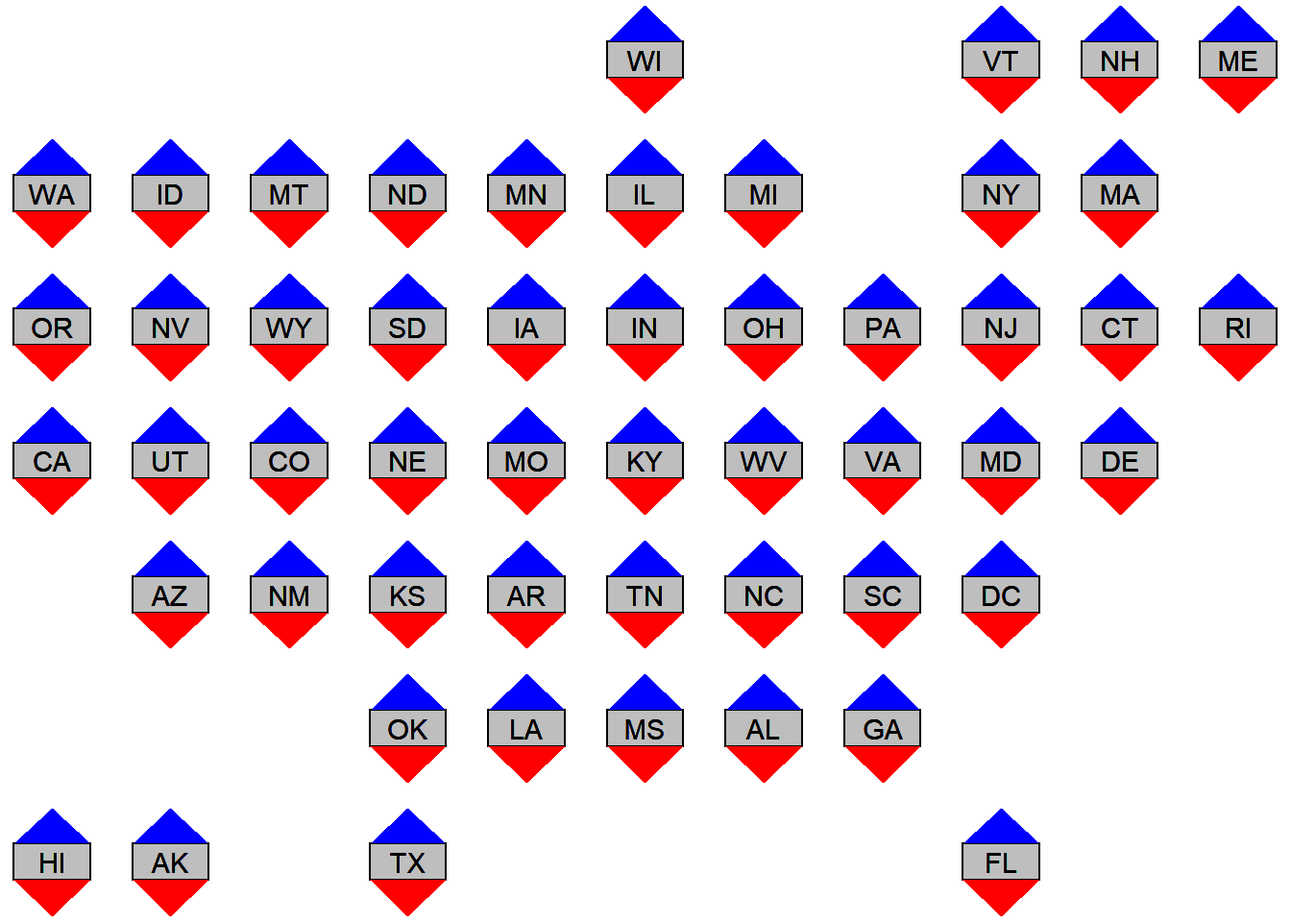
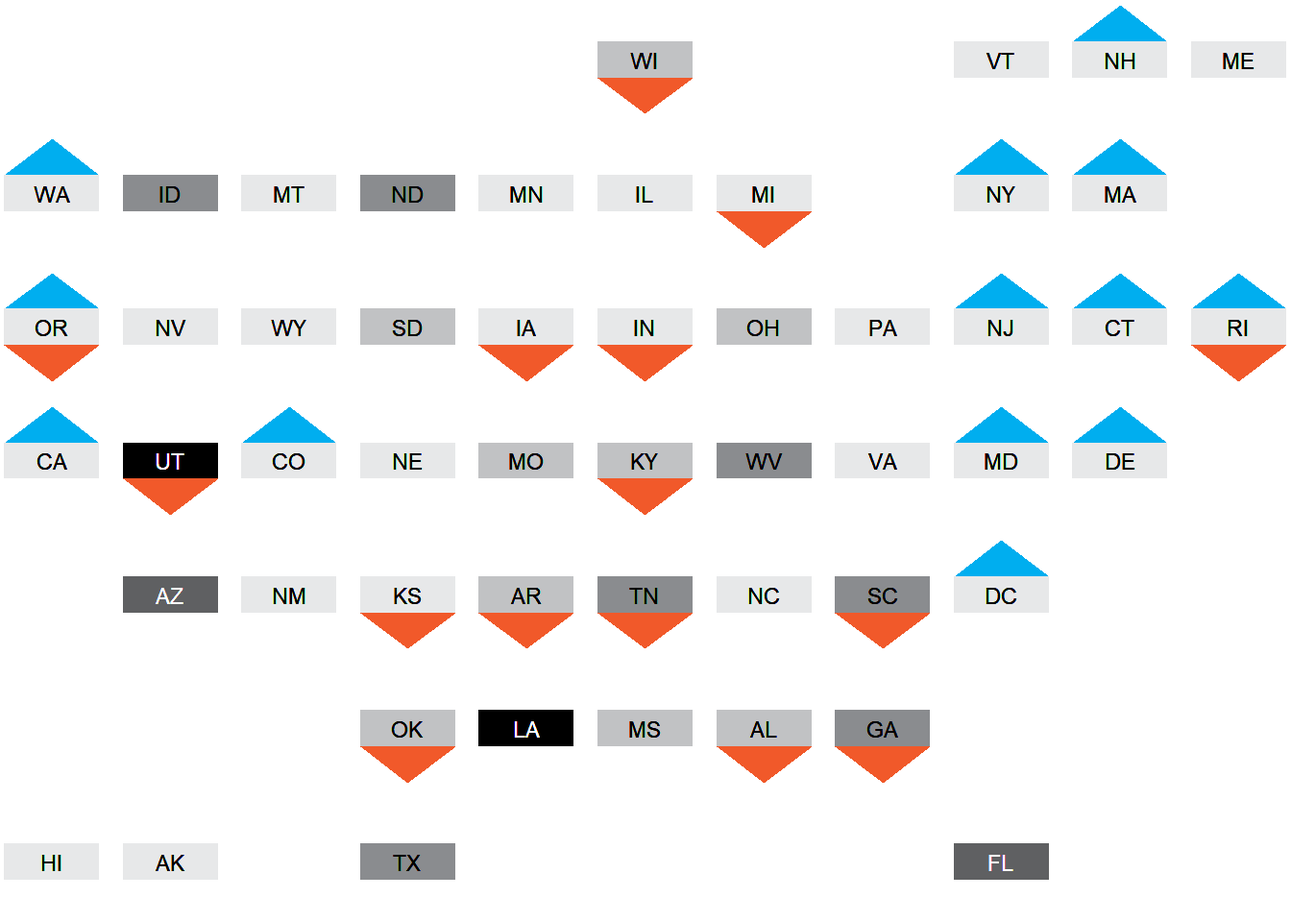
map data to rectangle and triangle features #7

diff --git a/requests/5/quarto/quarto.html b/requests/5/quarto/quarto.html
@@ -114,7 +114,7 @@ code span.wa { color: #60a0b0; font-weight: bold; font-style: italic; } /* Warni
   <li><a href="#unpacking" id="toc-unpacking" class="nav-link" data-scroll-target="#unpacking">Unpacking</a></li>
   </ul></li>
   <li><a href="#proof-of-concept" id="toc-proof-of-concept" class="nav-link" data-scroll-target="#proof-of-concept">Proof of concept</a></li>
-  <li><a href="#polishing" id="toc-polishing" class="nav-link" data-scroll-target="#polishing">Polishing</a></li>
+  <li><a href="#polishing-plot" id="toc-polishing-plot" class="nav-link" data-scroll-target="#polishing-plot">Polishing Plot</a></li>
   </ul>
 </nav>
 </div>
@@ -172,21 +172,22 @@ code span.wa { color: #60a0b0; font-weight: bold; font-style: italic; } /* Warni
 <span id="cb1-7"><a href="#cb1-7" aria-hidden="true" tabindex="-1"></a>raw_data <span class="ot">=</span> readxl<span class="sc">::</span><span class="fu">read_excel</span>(<span class="at">path =</span> <span class="st">"raw-data/family medical leave preemption dataset.xlsx"</span>,</span>
 <span id="cb1-8"><a href="#cb1-8" aria-hidden="true" tabindex="-1"></a>                              <span class="at">sheet =</span> <span class="st">'Sheet2'</span>) <span class="sc">%&gt;%</span> </span>
 <span id="cb1-9"><a href="#cb1-9" aria-hidden="true" tabindex="-1"></a>  <span class="fu">drop_na</span>() <span class="sc">%&gt;%</span> </span>
-<span id="cb1-10"><a href="#cb1-10" aria-hidden="true" tabindex="-1"></a>  <span class="fu">select</span>(<span class="at">name =</span> <span class="dv">1</span>, <span class="at">family_leave =</span> <span class="dv">2</span>, <span class="at">preemption =</span> <span class="dv">3</span>, <span class="at">abortion_ban_risk =</span> <span class="dv">4</span>)  </span>
-<span id="cb1-11"><a href="#cb1-11" aria-hidden="true" tabindex="-1"></a></span>
-<span id="cb1-12"><a href="#cb1-12" aria-hidden="true" tabindex="-1"></a><span class="do">## clean state codes</span></span>
-<span id="cb1-13"><a href="#cb1-13" aria-hidden="true" tabindex="-1"></a>xwalk_states <span class="ot">=</span> geofacet<span class="sc">::</span>state_ranks <span class="sc">%&gt;%</span> </span>
-<span id="cb1-14"><a href="#cb1-14" aria-hidden="true" tabindex="-1"></a>  <span class="fu">select</span>(name, state) <span class="sc">%&gt;%</span> </span>
-<span id="cb1-15"><a href="#cb1-15" aria-hidden="true" tabindex="-1"></a>  <span class="fu">distinct</span>()</span>
-<span id="cb1-16"><a href="#cb1-16" aria-hidden="true" tabindex="-1"></a>data <span class="ot">=</span> raw_data <span class="sc">%&gt;%</span> </span>
-<span id="cb1-17"><a href="#cb1-17" aria-hidden="true" tabindex="-1"></a>  <span class="fu">mutate</span>(<span class="at">name =</span> name <span class="sc">%&gt;%</span> <span class="fu">recode</span>(<span class="st">"Washington DC"</span> <span class="ot">=</span> <span class="st">"District of Columbia"</span> )) <span class="sc">%&gt;%</span> </span>
-<span id="cb1-18"><a href="#cb1-18" aria-hidden="true" tabindex="-1"></a>  <span class="fu">left_join</span>(xwalk_states)</span>
-<span id="cb1-19"><a href="#cb1-19" aria-hidden="true" tabindex="-1"></a>data</span></code><button title="Copy to Clipboard" class="code-copy-button"><i class="bi"></i></button></pre></div>
+<span id="cb1-10"><a href="#cb1-10" aria-hidden="true" tabindex="-1"></a>  <span class="fu">select</span>(<span class="at">name =</span> <span class="dv">1</span>, <span class="at">family_leave =</span> <span class="dv">2</span>, <span class="at">preemption =</span> <span class="dv">3</span>, <span class="at">abortion_ban_risk =</span> <span class="dv">4</span>)  <span class="sc">%&gt;%</span> </span>
+<span id="cb1-11"><a href="#cb1-11" aria-hidden="true" tabindex="-1"></a>  <span class="fu">mutate_all</span>(<span class="sc">~</span><span class="fu">as.character</span>(.x))</span>
+<span id="cb1-12"><a href="#cb1-12" aria-hidden="true" tabindex="-1"></a></span>
+<span id="cb1-13"><a href="#cb1-13" aria-hidden="true" tabindex="-1"></a><span class="do">## clean state codes</span></span>
+<span id="cb1-14"><a href="#cb1-14" aria-hidden="true" tabindex="-1"></a>xwalk_states <span class="ot">=</span> geofacet<span class="sc">::</span>state_ranks <span class="sc">%&gt;%</span> </span>
+<span id="cb1-15"><a href="#cb1-15" aria-hidden="true" tabindex="-1"></a>  <span class="fu">select</span>(name, state) <span class="sc">%&gt;%</span> </span>
+<span id="cb1-16"><a href="#cb1-16" aria-hidden="true" tabindex="-1"></a>  <span class="fu">distinct</span>()</span>
+<span id="cb1-17"><a href="#cb1-17" aria-hidden="true" tabindex="-1"></a>data <span class="ot">=</span> raw_data <span class="sc">%&gt;%</span> </span>
+<span id="cb1-18"><a href="#cb1-18" aria-hidden="true" tabindex="-1"></a>  <span class="fu">mutate</span>(<span class="at">name =</span> name <span class="sc">%&gt;%</span> <span class="fu">recode</span>(<span class="st">"Washington DC"</span> <span class="ot">=</span> <span class="st">"District of Columbia"</span> )) <span class="sc">%&gt;%</span> </span>
+<span id="cb1-19"><a href="#cb1-19" aria-hidden="true" tabindex="-1"></a>  <span class="fu">left_join</span>(xwalk_states)</span>
+<span id="cb1-20"><a href="#cb1-20" aria-hidden="true" tabindex="-1"></a>data</span></code><button title="Copy to Clipboard" class="code-copy-button"><i class="bi"></i></button></pre></div>
 <div class="cell-output-display">
 
 <div data-pagedtable="false">
   <script data-pagedtable-source="" type="application/json">
-{"columns":[{"label":["name"],"name":[1],"type":["chr"],"align":["left"]},{"label":["family_leave"],"name":[2],"type":["dbl"],"align":["right"]},{"label":["preemption"],"name":[3],"type":["dbl"],"align":["right"]},{"label":["abortion_ban_risk"],"name":[4],"type":["dbl"],"align":["right"]},{"label":["state"],"name":[5],"type":["chr"],"align":["left"]}],"data":[{"1":"Alabama","2":"0","3":"1","4":"1","5":"AL"},{"1":"Alaska","2":"0","3":"0","4":"0","5":"AK"},{"1":"Arizona","2":"0","3":"0","4":"3","5":"AZ"},{"1":"Arkansas","2":"0","3":"1","4":"1","5":"AR"},{"1":"California","2":"1","3":"0","4":"0","5":"CA"},{"1":"Colorado","2":"1","3":"0","4":"0","5":"CO"},{"1":"Connecticut","2":"1","3":"0","4":"0","5":"CT"},{"1":"Delaware","2":"1","3":"0","4":"0","5":"DE"},{"1":"Florida","2":"0","3":"0","4":"3","5":"FL"},{"1":"Georgia","2":"0","3":"1","4":"2","5":"GA"},{"1":"Hawaii","2":"0","3":"0","4":"0","5":"HI"},{"1":"Idaho","2":"0","3":"0","4":"2","5":"ID"},{"1":"Illinois","2":"0","3":"0","4":"0","5":"IL"},{"1":"Indiana","2":"0","3":"1","4":"0","5":"IN"},{"1":"Iowa","2":"0","3":"1","4":"0","5":"IA"},{"1":"Kansas","2":"0","3":"1","4":"0","5":"KS"},{"1":"Kentucky","2":"0","3":"1","4":"1","5":"KY"},{"1":"Louisiana","2":"0","3":"0","4":"4","5":"LA"},{"1":"Maine","2":"0","3":"0","4":"0","5":"ME"},{"1":"Maryland","2":"1","3":"0","4":"0","5":"MD"},{"1":"Massachusetts","2":"1","3":"0","4":"0","5":"MA"},{"1":"Michigan","2":"0","3":"1","4":"0","5":"MI"},{"1":"Minnesota","2":"0","3":"0","4":"0","5":"MN"},{"1":"Mississippi","2":"0","3":"0","4":"1","5":"MS"},{"1":"Missouri","2":"0","3":"0","4":"1","5":"MO"},{"1":"Montana","2":"0","3":"0","4":"0","5":"MT"},{"1":"Nebraska","2":"0","3":"0","4":"0","5":"NE"},{"1":"Nevada","2":"0","3":"0","4":"0","5":"NV"},{"1":"New Hampshire","2":"1","3":"0","4":"0","5":"NH"},{"1":"New Jersey","2":"1","3":"0","4":"0","5":"NJ"},{"1":"New Mexico","2":"0","3":"0","4":"0","5":"NM"},{"1":"New York","2":"1","3":"0","4":"0","5":"NY"},{"1":"North Carolina","2":"0","3":"0","4":"0","5":"NC"},{"1":"North Dakota","2":"0","3":"0","4":"2","5":"ND"},{"1":"Ohio","2":"0","3":"0","4":"1","5":"OH"},{"1":"Oklahoma","2":"0","3":"1","4":"1","5":"OK"},{"1":"Oregon","2":"1","3":"1","4":"0","5":"OR"},{"1":"Pennsylvania","2":"0","3":"0","4":"0","5":"PA"},{"1":"Rhode Island","2":"1","3":"1","4":"0","5":"RI"},{"1":"South Carolina","2":"0","3":"1","4":"2","5":"SC"},{"1":"South Dakota","2":"0","3":"0","4":"1","5":"SD"},{"1":"Tennessee","2":"0","3":"1","4":"2","5":"TN"},{"1":"Texas","2":"0","3":"0","4":"2","5":"TX"},{"1":"Utah","2":"0","3":"1","4":"4","5":"UT"},{"1":"Vermont","2":"0","3":"0","4":"0","5":"VT"},{"1":"Virginia","2":"0","3":"0","4":"0","5":"VA"},{"1":"Washington","2":"1","3":"0","4":"0","5":"WA"},{"1":"West Virginia","2":"0","3":"0","4":"2","5":"WV"},{"1":"Wisconsin","2":"0","3":"1","4":"1","5":"WI"},{"1":"Wyoming","2":"0","3":"0","4":"0","5":"WY"},{"1":"District of Columbia","2":"1","3":"0","4":"0","5":"DC"}],"options":{"columns":{"min":{},"max":[10]},"rows":{"min":[10],"max":[10]},"pages":{}}}
+{"columns":[{"label":["name"],"name":[1],"type":["chr"],"align":["left"]},{"label":["family_leave"],"name":[2],"type":["chr"],"align":["left"]},{"label":["preemption"],"name":[3],"type":["chr"],"align":["left"]},{"label":["abortion_ban_risk"],"name":[4],"type":["chr"],"align":["left"]},{"label":["state"],"name":[5],"type":["chr"],"align":["left"]}],"data":[{"1":"Alabama","2":"0","3":"1","4":"1","5":"AL"},{"1":"Alaska","2":"0","3":"0","4":"0","5":"AK"},{"1":"Arizona","2":"0","3":"0","4":"3","5":"AZ"},{"1":"Arkansas","2":"0","3":"1","4":"1","5":"AR"},{"1":"California","2":"1","3":"0","4":"0","5":"CA"},{"1":"Colorado","2":"1","3":"0","4":"0","5":"CO"},{"1":"Connecticut","2":"1","3":"0","4":"0","5":"CT"},{"1":"Delaware","2":"1","3":"0","4":"0","5":"DE"},{"1":"Florida","2":"0","3":"0","4":"3","5":"FL"},{"1":"Georgia","2":"0","3":"1","4":"2","5":"GA"},{"1":"Hawaii","2":"0","3":"0","4":"0","5":"HI"},{"1":"Idaho","2":"0","3":"0","4":"2","5":"ID"},{"1":"Illinois","2":"0","3":"0","4":"0","5":"IL"},{"1":"Indiana","2":"0","3":"1","4":"0","5":"IN"},{"1":"Iowa","2":"0","3":"1","4":"0","5":"IA"},{"1":"Kansas","2":"0","3":"1","4":"0","5":"KS"},{"1":"Kentucky","2":"0","3":"1","4":"1","5":"KY"},{"1":"Louisiana","2":"0","3":"0","4":"4","5":"LA"},{"1":"Maine","2":"0","3":"0","4":"0","5":"ME"},{"1":"Maryland","2":"1","3":"0","4":"0","5":"MD"},{"1":"Massachusetts","2":"1","3":"0","4":"0","5":"MA"},{"1":"Michigan","2":"0","3":"1","4":"0","5":"MI"},{"1":"Minnesota","2":"0","3":"0","4":"0","5":"MN"},{"1":"Mississippi","2":"0","3":"0","4":"1","5":"MS"},{"1":"Missouri","2":"0","3":"0","4":"1","5":"MO"},{"1":"Montana","2":"0","3":"0","4":"0","5":"MT"},{"1":"Nebraska","2":"0","3":"0","4":"0","5":"NE"},{"1":"Nevada","2":"0","3":"0","4":"0","5":"NV"},{"1":"New Hampshire","2":"1","3":"0","4":"0","5":"NH"},{"1":"New Jersey","2":"1","3":"0","4":"0","5":"NJ"},{"1":"New Mexico","2":"0","3":"0","4":"0","5":"NM"},{"1":"New York","2":"1","3":"0","4":"0","5":"NY"},{"1":"North Carolina","2":"0","3":"0","4":"0","5":"NC"},{"1":"North Dakota","2":"0","3":"0","4":"2","5":"ND"},{"1":"Ohio","2":"0","3":"0","4":"1","5":"OH"},{"1":"Oklahoma","2":"0","3":"1","4":"1","5":"OK"},{"1":"Oregon","2":"1","3":"1","4":"0","5":"OR"},{"1":"Pennsylvania","2":"0","3":"0","4":"0","5":"PA"},{"1":"Rhode Island","2":"1","3":"1","4":"0","5":"RI"},{"1":"South Carolina","2":"0","3":"1","4":"2","5":"SC"},{"1":"South Dakota","2":"0","3":"0","4":"1","5":"SD"},{"1":"Tennessee","2":"0","3":"1","4":"2","5":"TN"},{"1":"Texas","2":"0","3":"0","4":"2","5":"TX"},{"1":"Utah","2":"0","3":"1","4":"4","5":"UT"},{"1":"Vermont","2":"0","3":"0","4":"0","5":"VT"},{"1":"Virginia","2":"0","3":"0","4":"0","5":"VA"},{"1":"Washington","2":"1","3":"0","4":"0","5":"WA"},{"1":"West Virginia","2":"0","3":"0","4":"2","5":"WV"},{"1":"Wisconsin","2":"0","3":"1","4":"1","5":"WI"},{"1":"Wyoming","2":"0","3":"0","4":"0","5":"WY"},{"1":"District of Columbia","2":"1","3":"0","4":"0","5":"DC"}],"options":{"columns":{"min":{},"max":[10]},"rows":{"min":[10],"max":[10]},"pages":{}}}
   </script>
 </div>
 </div>
@@ -255,13 +256,13 @@ code span.wa { color: #60a0b0; font-weight: bold; font-style: italic; } /* Warni
 </div>
 <p>Great I think this approach is getting us to what we want.</p>
 </section>
-<section id="polishing" class="level1">
-<h1>Polishing</h1>
+<section id="polishing-plot" class="level1">
+<h1>Polishing Plot</h1>
 <p>There are a few things to do to polish it a bit.</p>
 <ul class="task-list">
-<li><input type="checkbox" disabled="">
+<li><input type="checkbox" disabled="" checked="">
 display triangles based on the data features</li>
-<li><input type="checkbox" disabled="">
+<li><input type="checkbox" disabled="" checked="">
 display abortion ban risk as shade of triangle</li>
 <li><input type="checkbox" disabled="" checked="">
 minimize the inidividual plot margins (to make the layout more similiar to our example)</li>
@@ -281,39 +282,71 @@ move the 2 letter state abbrv into the rectangle</li>
 <span id="cb4-8"><a href="#cb4-8" aria-hidden="true" tabindex="-1"></a>rect_ymin <span class="ot">=</span> height<span class="sc">/</span><span class="dv">3</span></span>
 <span id="cb4-9"><a href="#cb4-9" aria-hidden="true" tabindex="-1"></a>rect_ymax <span class="ot">=</span> rect_ymin<span class="sc">*</span><span class="dv">2</span></span>
 <span id="cb4-10"><a href="#cb4-10" aria-hidden="true" tabindex="-1"></a></span>
-<span id="cb4-11"><a href="#cb4-11" aria-hidden="true" tabindex="-1"></a><span class="do">## Append coordinates to data for geom_polygon</span></span>
-<span id="cb4-12"><a href="#cb4-12" aria-hidden="true" tabindex="-1"></a>data_w_coords <span class="ot">=</span> data <span class="sc">%&gt;%</span> </span>
-<span id="cb4-13"><a href="#cb4-13" aria-hidden="true" tabindex="-1"></a>  <span class="fu">mutate</span>(<span class="at">top_triangle_x =</span> <span class="fu">list</span>(<span class="fu">c</span>(rect_xmin,rect_xmax,rect_x_mean)),</span>
-<span id="cb4-14"><a href="#cb4-14" aria-hidden="true" tabindex="-1"></a>         <span class="at">top_triangle_y =</span> <span class="fu">list</span>(<span class="fu">c</span>(rect_ymax,rect_ymax,height)),</span>
-<span id="cb4-15"><a href="#cb4-15" aria-hidden="true" tabindex="-1"></a>         <span class="at">bottom_triangle_x =</span> <span class="fu">list</span>(<span class="fu">c</span>(rect_xmin,rect_xmax,rect_x_mean)),</span>
-<span id="cb4-16"><a href="#cb4-16" aria-hidden="true" tabindex="-1"></a>         <span class="at">bottom_triangle_y =</span> <span class="fu">list</span>(<span class="fu">c</span>(rect_ymin,rect_ymin,<span class="dv">0</span>))</span>
-<span id="cb4-17"><a href="#cb4-17" aria-hidden="true" tabindex="-1"></a>  ) <span class="sc">%&gt;%</span> </span>
-<span id="cb4-18"><a href="#cb4-18" aria-hidden="true" tabindex="-1"></a>  <span class="fu">unnest</span>(<span class="at">cols =</span> <span class="fu">c</span>(top_triangle_x, top_triangle_y, bottom_triangle_x, bottom_triangle_y))</span>
-<span id="cb4-19"><a href="#cb4-19" aria-hidden="true" tabindex="-1"></a></span>
-<span id="cb4-20"><a href="#cb4-20" aria-hidden="true" tabindex="-1"></a></span>
-<span id="cb4-21"><a href="#cb4-21" aria-hidden="true" tabindex="-1"></a><span class="do">## create a function to make basic shapes</span></span>
-<span id="cb4-22"><a href="#cb4-22" aria-hidden="true" tabindex="-1"></a>geom_hex_for_alina <span class="ot">=</span> <span class="cf">function</span>(data){</span>
-<span id="cb4-23"><a href="#cb4-23" aria-hidden="true" tabindex="-1"></a>  data <span class="sc">%&gt;%</span> </span>
-<span id="cb4-24"><a href="#cb4-24" aria-hidden="true" tabindex="-1"></a>    <span class="fu">ggplot</span>()  <span class="sc">+</span> </span>
-<span id="cb4-25"><a href="#cb4-25" aria-hidden="true" tabindex="-1"></a>    <span class="fu">geom_rect</span>(<span class="fu">aes</span>(<span class="at">xmin =</span> <span class="dv">0</span>, <span class="at">xmax =</span> <span class="dv">10</span>, <span class="at">ymin =</span> <span class="dv">0</span>, <span class="at">ymax =</span> <span class="dv">10</span>),  <span class="at">fill =</span> <span class="st">"white"</span>) <span class="sc">+</span> <span class="co"># 10 by 10 container</span></span>
-<span id="cb4-26"><a href="#cb4-26" aria-hidden="true" tabindex="-1"></a>    <span class="fu">geom_rect</span>(<span class="fu">aes</span>(<span class="at">xmin =</span> rect_xmin, <span class="at">xmax =</span> rect_xmax,<span class="at">ymin =</span>rect_ymin, <span class="at">ymax =</span> rect_ymax),    <span class="co"># add rectangle</span></span>
-<span id="cb4-27"><a href="#cb4-27" aria-hidden="true" tabindex="-1"></a>              <span class="at">color =</span> <span class="st">"black"</span>, <span class="at">fill =</span> <span class="st">"grey"</span>) <span class="sc">+</span></span>
-<span id="cb4-28"><a href="#cb4-28" aria-hidden="true" tabindex="-1"></a>    <span class="fu">geom_polygon</span>(<span class="fu">aes</span>(<span class="at">x=</span>top_triangle_x,<span class="at">y=</span>top_triangle_y), <span class="at">fill =</span> <span class="st">'blue'</span>) <span class="sc">+</span> <span class="co"># top triangle</span></span>
-<span id="cb4-29"><a href="#cb4-29" aria-hidden="true" tabindex="-1"></a>    <span class="fu">geom_polygon</span>(<span class="fu">aes</span>(<span class="at">x =</span> bottom_triangle_x, <span class="at">y =</span> bottom_triangle_y),  <span class="at">fill =</span> <span class="st">'red'</span>) <span class="sc">+</span>   <span class="co"># bottom triangle</span></span>
-<span id="cb4-30"><a href="#cb4-30" aria-hidden="true" tabindex="-1"></a>    <span class="fu">theme_void</span>()<span class="sc">+</span> </span>
-<span id="cb4-31"><a href="#cb4-31" aria-hidden="true" tabindex="-1"></a>    <span class="fu">geom_text</span>(<span class="fu">aes</span>(<span class="at">label =</span> state), <span class="at">x =</span> height<span class="sc">/</span><span class="dv">2</span>, <span class="at">y =</span> height<span class="sc">/</span><span class="dv">2</span>)<span class="sc">+</span></span>
-<span id="cb4-32"><a href="#cb4-32" aria-hidden="true" tabindex="-1"></a>    <span class="fu">theme</span>(</span>
-<span id="cb4-33"><a href="#cb4-33" aria-hidden="true" tabindex="-1"></a>      <span class="do">## Completely remove facet labels</span></span>
-<span id="cb4-34"><a href="#cb4-34" aria-hidden="true" tabindex="-1"></a>      <span class="at">strip.background =</span> <span class="fu">element_blank</span>(),</span>
-<span id="cb4-35"><a href="#cb4-35" aria-hidden="true" tabindex="-1"></a>      <span class="at">strip.text.x =</span> <span class="fu">element_blank</span>()</span>
-<span id="cb4-36"><a href="#cb4-36" aria-hidden="true" tabindex="-1"></a>    )</span>
-<span id="cb4-37"><a href="#cb4-37" aria-hidden="true" tabindex="-1"></a>}</span>
+<span id="cb4-11"><a href="#cb4-11" aria-hidden="true" tabindex="-1"></a><span class="do">## Manual colors for data features</span></span>
+<span id="cb4-12"><a href="#cb4-12" aria-hidden="true" tabindex="-1"></a>fill_colors <span class="ot">=</span> <span class="fu">c</span>(<span class="st">"0"</span> <span class="ot">=</span> <span class="st">"#e7e8e9"</span>,</span>
+<span id="cb4-13"><a href="#cb4-13" aria-hidden="true" tabindex="-1"></a>                <span class="st">"1"</span> <span class="ot">=</span> <span class="st">"#c1c2c4"</span>, </span>
+<span id="cb4-14"><a href="#cb4-14" aria-hidden="true" tabindex="-1"></a>                <span class="st">"2"</span> <span class="ot">=</span> <span class="st">"#8a8c8f"</span>,</span>
+<span id="cb4-15"><a href="#cb4-15" aria-hidden="true" tabindex="-1"></a>                <span class="st">"3"</span> <span class="ot">=</span> <span class="st">"#5f6062"</span>,</span>
+<span id="cb4-16"><a href="#cb4-16" aria-hidden="true" tabindex="-1"></a>                <span class="st">"4"</span> <span class="ot">=</span> <span class="st">"#000000"</span>,</span>
+<span id="cb4-17"><a href="#cb4-17" aria-hidden="true" tabindex="-1"></a>                <span class="st">"white"</span> <span class="ot">=</span> <span class="st">"white"</span>,</span>
+<span id="cb4-18"><a href="#cb4-18" aria-hidden="true" tabindex="-1"></a>                <span class="st">"black"</span> <span class="ot">=</span> <span class="st">"black"</span>,</span>
+<span id="cb4-19"><a href="#cb4-19" aria-hidden="true" tabindex="-1"></a>                <span class="st">"0_family_leave"</span> <span class="ot">=</span> <span class="st">"white"</span>,</span>
+<span id="cb4-20"><a href="#cb4-20" aria-hidden="true" tabindex="-1"></a>                <span class="st">"1_family_leave"</span> <span class="ot">=</span> <span class="st">"#00aeef"</span>,</span>
+<span id="cb4-21"><a href="#cb4-21" aria-hidden="true" tabindex="-1"></a>                <span class="st">"0_preemption"</span> <span class="ot">=</span> <span class="st">"white"</span>,</span>
+<span id="cb4-22"><a href="#cb4-22" aria-hidden="true" tabindex="-1"></a>                <span class="st">"1_preemption"</span> <span class="ot">=</span> <span class="st">"#f1592a"</span>)     </span>
+<span id="cb4-23"><a href="#cb4-23" aria-hidden="true" tabindex="-1"></a></span>
+<span id="cb4-24"><a href="#cb4-24" aria-hidden="true" tabindex="-1"></a><span class="do">## Operationalize data for plot</span></span>
+<span id="cb4-25"><a href="#cb4-25" aria-hidden="true" tabindex="-1"></a>data_processed <span class="ot">=</span> data <span class="sc">%&gt;%</span> </span>
+<span id="cb4-26"><a href="#cb4-26" aria-hidden="true" tabindex="-1"></a>  <span class="do">## Append coordinates to data for geom_polygon</span></span>
+<span id="cb4-27"><a href="#cb4-27" aria-hidden="true" tabindex="-1"></a>  <span class="fu">mutate</span>(<span class="at">top_triangle_x =</span> <span class="fu">list</span>(<span class="fu">c</span>(rect_xmin,rect_xmax,rect_x_mean)),</span>
+<span id="cb4-28"><a href="#cb4-28" aria-hidden="true" tabindex="-1"></a>         <span class="at">top_triangle_y =</span> <span class="fu">list</span>(<span class="fu">c</span>(rect_ymax,rect_ymax,height)),</span>
+<span id="cb4-29"><a href="#cb4-29" aria-hidden="true" tabindex="-1"></a>         <span class="at">bottom_triangle_x =</span> <span class="fu">list</span>(<span class="fu">c</span>(rect_xmin,rect_xmax,rect_x_mean)),</span>
+<span id="cb4-30"><a href="#cb4-30" aria-hidden="true" tabindex="-1"></a>         <span class="at">bottom_triangle_y =</span> <span class="fu">list</span>(<span class="fu">c</span>(rect_ymin,rect_ymin,<span class="dv">0</span>))</span>
+<span id="cb4-31"><a href="#cb4-31" aria-hidden="true" tabindex="-1"></a>  ) <span class="sc">%&gt;%</span> </span>
+<span id="cb4-32"><a href="#cb4-32" aria-hidden="true" tabindex="-1"></a>  <span class="fu">unnest</span>(<span class="at">cols =</span> <span class="fu">c</span>(top_triangle_x, top_triangle_y, bottom_triangle_x, bottom_triangle_y)) <span class="sc">%&gt;%</span> </span>
+<span id="cb4-33"><a href="#cb4-33" aria-hidden="true" tabindex="-1"></a>  <span class="do">## operationalize colors</span></span>
+<span id="cb4-34"><a href="#cb4-34" aria-hidden="true" tabindex="-1"></a>  <span class="fu">mutate</span>(</span>
+<span id="cb4-35"><a href="#cb4-35" aria-hidden="true" tabindex="-1"></a>    <span class="at">state_text =</span> <span class="fu">ifelse</span>(<span class="fu">as.numeric</span>(abortion_ban_risk)<span class="sc">&gt;</span><span class="dv">2</span>, <span class="st">"white"</span>,<span class="st">"black"</span>),</span>
+<span id="cb4-36"><a href="#cb4-36" aria-hidden="true" tabindex="-1"></a>    <span class="at">family_leave =</span> <span class="fu">paste0</span>(family_leave,<span class="st">"_family_leave"</span>),</span>
+<span id="cb4-37"><a href="#cb4-37" aria-hidden="true" tabindex="-1"></a>    <span class="at">preemption =</span> <span class="fu">paste0</span>(preemption,<span class="st">"_preemption"</span>))</span>
 <span id="cb4-38"><a href="#cb4-38" aria-hidden="true" tabindex="-1"></a></span>
 <span id="cb4-39"><a href="#cb4-39" aria-hidden="true" tabindex="-1"></a></span>
-<span id="cb4-40"><a href="#cb4-40" aria-hidden="true" tabindex="-1"></a><span class="do">## Test facet</span></span>
-<span id="cb4-41"><a href="#cb4-41" aria-hidden="true" tabindex="-1"></a>data_w_coords <span class="sc">%&gt;%</span> </span>
-<span id="cb4-42"><a href="#cb4-42" aria-hidden="true" tabindex="-1"></a>  <span class="fu">geom_hex_for_alina</span>() <span class="sc">+</span></span>
-<span id="cb4-43"><a href="#cb4-43" aria-hidden="true" tabindex="-1"></a>  <span class="fu">facet_geo</span>(<span class="sc">~</span> state) </span></code><button title="Copy to Clipboard" class="code-copy-button"><i class="bi"></i></button></pre></div>
+<span id="cb4-40"><a href="#cb4-40" aria-hidden="true" tabindex="-1"></a><span class="do">## create a function to make basic shapes</span></span>
+<span id="cb4-41"><a href="#cb4-41" aria-hidden="true" tabindex="-1"></a>geom_hex_for_alina <span class="ot">=</span> <span class="cf">function</span>(data){</span>
+<span id="cb4-42"><a href="#cb4-42" aria-hidden="true" tabindex="-1"></a>  data <span class="sc">%&gt;%</span> </span>
+<span id="cb4-43"><a href="#cb4-43" aria-hidden="true" tabindex="-1"></a>    <span class="fu">ggplot</span>()  <span class="sc">+</span></span>
+<span id="cb4-44"><a href="#cb4-44" aria-hidden="true" tabindex="-1"></a>    <span class="do">## add rectangle</span></span>
+<span id="cb4-45"><a href="#cb4-45" aria-hidden="true" tabindex="-1"></a>    <span class="fu">geom_rect</span>(<span class="fu">aes</span>(<span class="at">xmin =</span> rect_xmin, <span class="at">xmax =</span> rect_xmax,   </span>
+<span id="cb4-46"><a href="#cb4-46" aria-hidden="true" tabindex="-1"></a>                  <span class="at">ymin =</span>rect_ymin, <span class="at">ymax =</span> rect_ymax, </span>
+<span id="cb4-47"><a href="#cb4-47" aria-hidden="true" tabindex="-1"></a>                  <span class="at">fill =</span> abortion_ban_risk)) <span class="sc">+</span></span>
+<span id="cb4-48"><a href="#cb4-48" aria-hidden="true" tabindex="-1"></a>    <span class="do">## Add state abbrv text</span></span>
+<span id="cb4-49"><a href="#cb4-49" aria-hidden="true" tabindex="-1"></a>    <span class="fu">geom_text</span>(<span class="fu">aes</span>(<span class="at">label =</span> state, <span class="at">color =</span> state_text),</span>
+<span id="cb4-50"><a href="#cb4-50" aria-hidden="true" tabindex="-1"></a>              <span class="at">x =</span> height<span class="sc">/</span><span class="dv">2</span>, <span class="at">y =</span> height<span class="sc">/</span><span class="dv">2</span>,</span>
+<span id="cb4-51"><a href="#cb4-51" aria-hidden="true" tabindex="-1"></a>              <span class="at">size =</span> <span class="dv">3</span>,</span>
+<span id="cb4-52"><a href="#cb4-52" aria-hidden="true" tabindex="-1"></a>              <span class="at">family =</span> <span class="st">"Courier"</span>)<span class="sc">+</span></span>
+<span id="cb4-53"><a href="#cb4-53" aria-hidden="true" tabindex="-1"></a>    <span class="do">## Top triangle (family leave)</span></span>
+<span id="cb4-54"><a href="#cb4-54" aria-hidden="true" tabindex="-1"></a>    <span class="fu">geom_polygon</span>(<span class="fu">aes</span>(<span class="at">x=</span>top_triangle_x,<span class="at">y=</span>top_triangle_y, <span class="at">fill =</span> family_leave)) <span class="sc">+</span> </span>
+<span id="cb4-55"><a href="#cb4-55" aria-hidden="true" tabindex="-1"></a>    <span class="do">## Bottom triangle (preemption)</span></span>
+<span id="cb4-56"><a href="#cb4-56" aria-hidden="true" tabindex="-1"></a>    <span class="fu">geom_polygon</span>(<span class="fu">aes</span>(<span class="at">x =</span> bottom_triangle_x, <span class="at">y =</span> bottom_triangle_y, <span class="at">fill =</span> preemption)) <span class="sc">+</span>   </span>
+<span id="cb4-57"><a href="#cb4-57" aria-hidden="true" tabindex="-1"></a>    <span class="do">## Manual colors</span></span>
+<span id="cb4-58"><a href="#cb4-58" aria-hidden="true" tabindex="-1"></a>    <span class="fu">scale_fill_manual</span>(<span class="at">values =</span> fill_colors) <span class="sc">+</span></span>
+<span id="cb4-59"><a href="#cb4-59" aria-hidden="true" tabindex="-1"></a>    <span class="fu">scale_color_manual</span>(<span class="at">name =</span> <span class="st">"state_text"</span>, <span class="at">values =</span> fill_colors) <span class="sc">+</span></span>
+<span id="cb4-60"><a href="#cb4-60" aria-hidden="true" tabindex="-1"></a>    <span class="fu">theme_void</span>()<span class="sc">+</span> </span>
+<span id="cb4-61"><a href="#cb4-61" aria-hidden="true" tabindex="-1"></a>    <span class="fu">theme</span>(</span>
+<span id="cb4-62"><a href="#cb4-62" aria-hidden="true" tabindex="-1"></a>      <span class="do">## Completely remove facet labels</span></span>
+<span id="cb4-63"><a href="#cb4-63" aria-hidden="true" tabindex="-1"></a>      <span class="at">strip.background =</span> <span class="fu">element_blank</span>(),</span>
+<span id="cb4-64"><a href="#cb4-64" aria-hidden="true" tabindex="-1"></a>      <span class="at">strip.text.x =</span> <span class="fu">element_blank</span>(),</span>
+<span id="cb4-65"><a href="#cb4-65" aria-hidden="true" tabindex="-1"></a>      <span class="do">## Remove legend</span></span>
+<span id="cb4-66"><a href="#cb4-66" aria-hidden="true" tabindex="-1"></a>      <span class="at">legend.position =</span> <span class="st">'none'</span></span>
+<span id="cb4-67"><a href="#cb4-67" aria-hidden="true" tabindex="-1"></a>    )</span>
+<span id="cb4-68"><a href="#cb4-68" aria-hidden="true" tabindex="-1"></a>}</span>
+<span id="cb4-69"><a href="#cb4-69" aria-hidden="true" tabindex="-1"></a></span>
+<span id="cb4-70"><a href="#cb4-70" aria-hidden="true" tabindex="-1"></a></span>
+<span id="cb4-71"><a href="#cb4-71" aria-hidden="true" tabindex="-1"></a><span class="do">## Test facet</span></span>
+<span id="cb4-72"><a href="#cb4-72" aria-hidden="true" tabindex="-1"></a>plot <span class="ot">=</span> data_processed <span class="sc">%&gt;%</span> </span>
+<span id="cb4-73"><a href="#cb4-73" aria-hidden="true" tabindex="-1"></a>  <span class="fu">geom_hex_for_alina</span>() <span class="sc">+</span></span>
+<span id="cb4-74"><a href="#cb4-74" aria-hidden="true" tabindex="-1"></a>  <span class="fu">facet_geo</span>(<span class="sc">~</span> state) </span>
+<span id="cb4-75"><a href="#cb4-75" aria-hidden="true" tabindex="-1"></a>plot</span></code><button title="Copy to Clipboard" class="code-copy-button"><i class="bi"></i></button></pre></div>
 <div class="cell-output-display">
 <p><img src="quarto_files/figure-html/unnamed-chunk-4-1.png" class="img-fluid" width="672"></p>
 </div>
